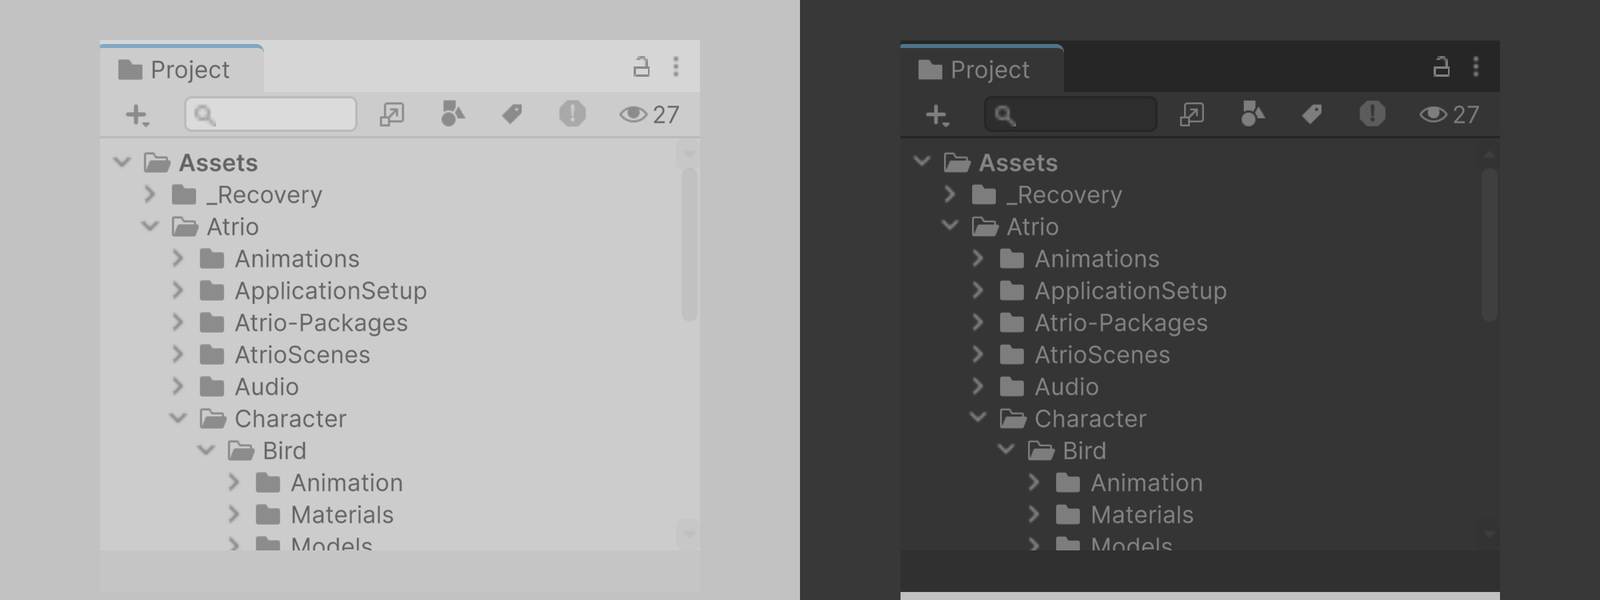
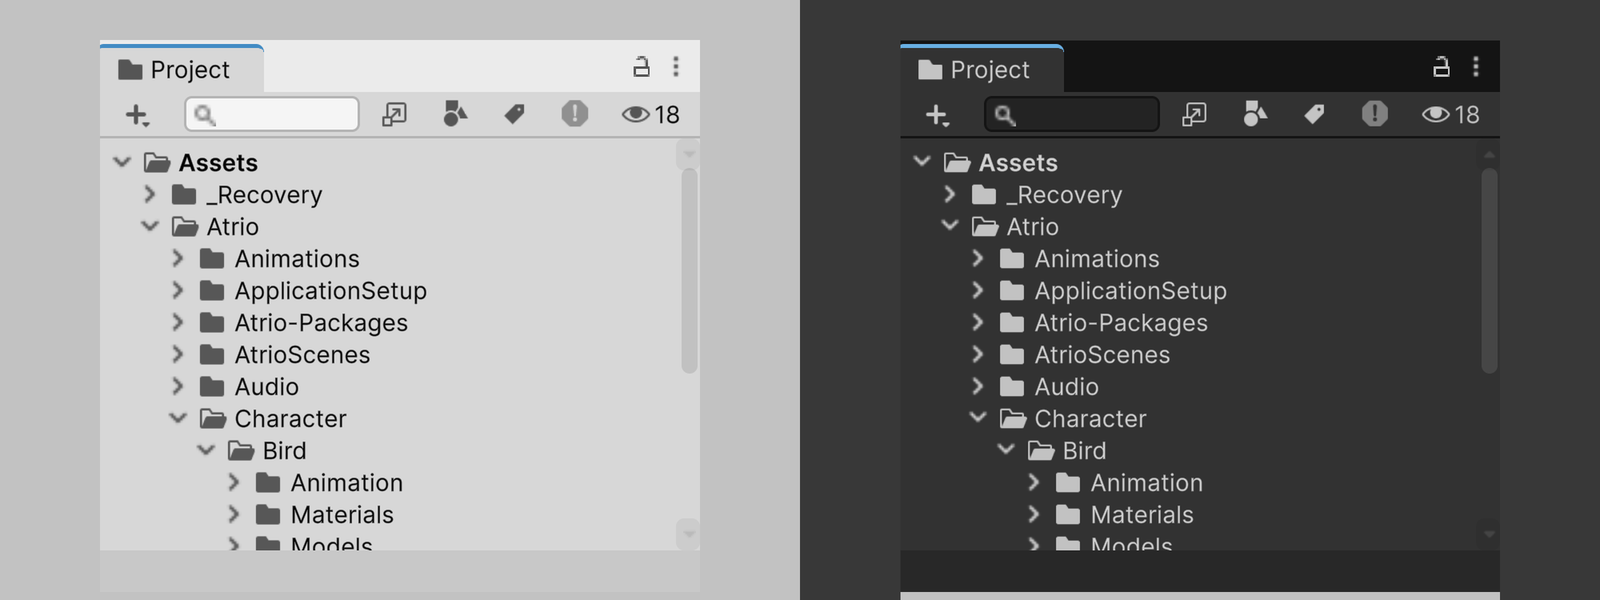
Scroll View overview at full opacity
Retook components/scroll-view/sv-overview.png in Unity 7000.0.0a20 (250%,
dark and light) with unity/sv_proj.cs and composed it without the 50% fade:
sv_compose.py's overview fade is now keep=1.0. Atrio stood in as empty
look-alike folders, so the visible-packages count reads 18 instead of 27.

diff --git a/capture/scripts/pages/sv_compose.py b/capture/scripts/pages/sv_compose.py
@@ -59,9 +59,10 @@ out.paste(im.crop(db), db[:2]); out.save(f"captures/sv_hover_d{SUF}.png")
 run("06", "sv-color.png", f"captures/sv_hover_d{SUF}.png", [])
 
 
-# 01 overview (two themes, built on the light run): one-column Project window in each skin, faded like the original
+# 01 overview (two themes, built on the light run): one-column Project window in each skin, at full opacity
+# (the original was faded; keep=1.0 leaves the captures as they are, set it lower to fade them again)
 if LIGHT:
-    def faded(src, bg, keep=0.5):
+    def faded(src, bg, keep=1.0):
         im = Image.open(src).convert("RGB"); out = Image.blend(Image.new("RGB", im.size, bg), im, keep); out.save(src.replace(".png", "_fade.png")); return src.replace(".png", "_fade.png")
     spec = {"out": f"{OUTDIR}/sv-overview.png", "canvas": [1600, 600], "backdrop": [194, 194, 194],
             "windows": [{"src": faded("captures/sv_ov_l.png", (194, 194, 194)), "chrome": "none", "x": 100, "y": 40, "w": 600},
